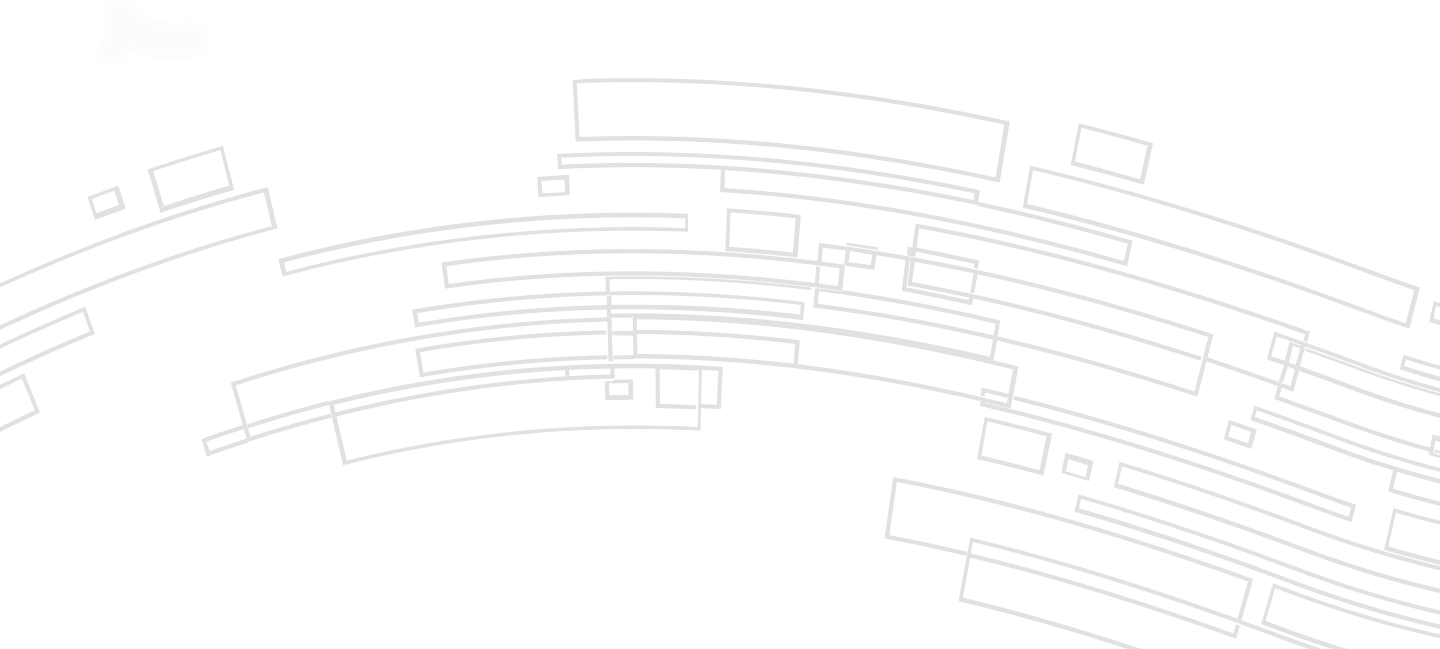
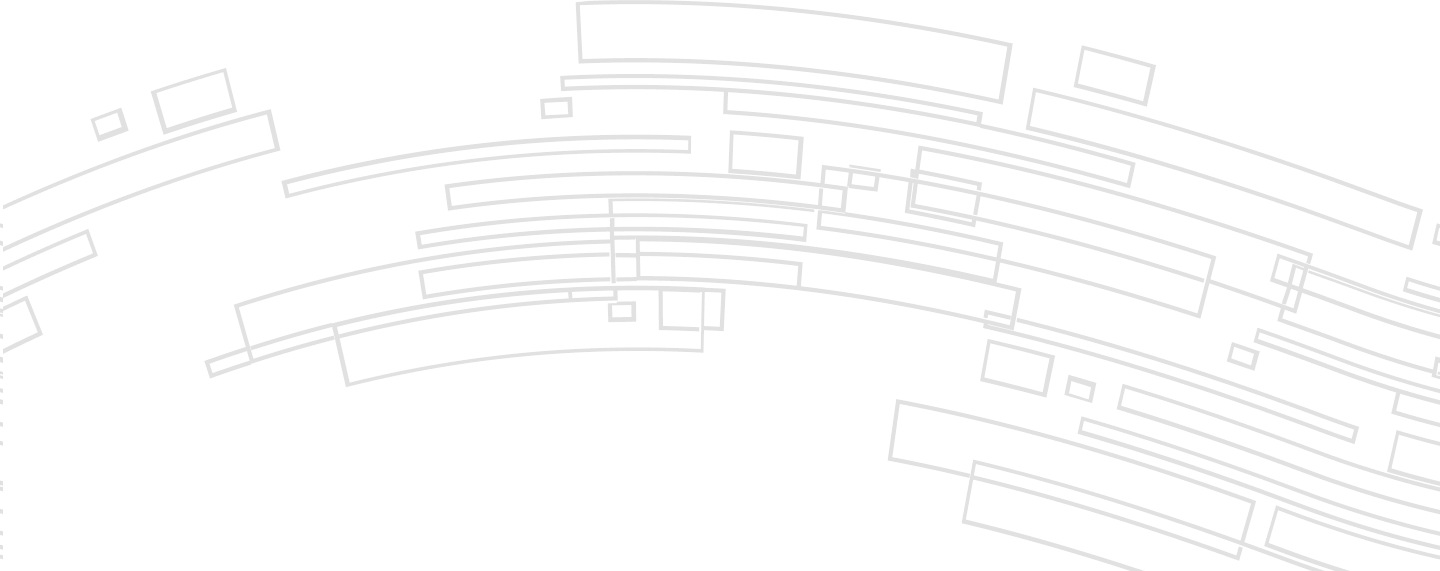
Commut

diff --git a/v2.html b/v2.html
@@ -24,9 +24,11 @@
       - Images/officers/drake-macias.jpg
       - Images/elements/hero-left-circuits.svg
       - Images/elements/waves.png
+      - Images/elements/hex-grad-15.png
 
       Use forward slashes in paths:
       Correct: Images/elements/waves.png
+      Correct: Images/elements/hex-grad-15.png
       Incorrect: \Images\elements\waves.png
     -->
 
@@ -695,11 +697,43 @@
 
         /* =========================================================
            EVENTS / PROJECTS / LEADERSHIP SECTION
+           Waves moved here behind Explore the Club
         ========================================================= */
 
         #events {
-            background: linear-gradient(180deg, #eef5fb 0%, #f7f9fc 45%, #ffffff 100%);
+            position: relative;
+            overflow: hidden;
+            isolation: isolate;
+            background: linear-gradient(180deg, rgba(238,245,251,.96) 0%, rgba(247,249,252,.94) 45%, rgba(255,255,255,.98) 100%);
         }
+
+            #events::before {
+                content: '';
+                position: absolute;
+                inset: 0;
+                z-index: -2;
+                pointer-events: none;
+                background-image: url("Images/elements/waves.png");
+                background-repeat: no-repeat;
+                background-position: center top;
+                background-size: cover;
+                opacity: .18;
+                mix-blend-mode: multiply;
+            }
+
+            #events::after {
+                content: '';
+                position: absolute;
+                inset: 0;
+                z-index: -1;
+                pointer-events: none;
+                background: radial-gradient(circle at 12% 10%, rgba(248,189,34,.16), transparent 28%), radial-gradient(circle at 90% 18%, rgba(0,55,103,.14), transparent 30%), linear-gradient(180deg, rgba(255,255,255,.42), rgba(255,255,255,.78));
+            }
+
+            #events .container {
+                position: relative;
+                z-index: 1;
+            }
 
         .event-list {
             display: grid;
@@ -855,6 +889,7 @@
 
         /* =========================================================
            SHARED JOIN + FOOTER BACKGROUND
+           Hex pattern starts from bottom and stretches upward
         ========================================================= */
 
         .cta-footer-wrap {
@@ -868,15 +903,30 @@
             .cta-footer-wrap::before {
                 content: '';
                 position: absolute;
+                left: 0;
+                right: 0;
+                bottom: 0;
+                top: auto;
+                height: 100%;
+                z-index: 0;
+                pointer-events: none;
+                background-image: url("Images/elements/hex-grad-15.png");
+                background-repeat: repeat-x;
+                background-position: center bottom;
+                background-size: auto 420px;
+                opacity: .34;
+                mix-blend-mode: screen;
+                transform: scaleY(-1);
+                transform-origin: center bottom;
+            }
+
+            .cta-footer-wrap::after {
+                content: '';
+                position: absolute;
                 inset: 0;
                 z-index: 0;
                 pointer-events: none;
-                background-image: url("Images/elements/waves.png");
-                background-repeat: no-repeat;
-                background-position: center center;
-                background-size: cover;
-                opacity: .14;
-                mix-blend-mode: screen;
+                background: radial-gradient(circle at 18% 20%, rgba(248,189,34,.13), transparent 30%), linear-gradient(180deg, rgba(3,23,47,.08), rgba(3,23,47,.34));
             }
 
             .cta-footer-wrap > section,